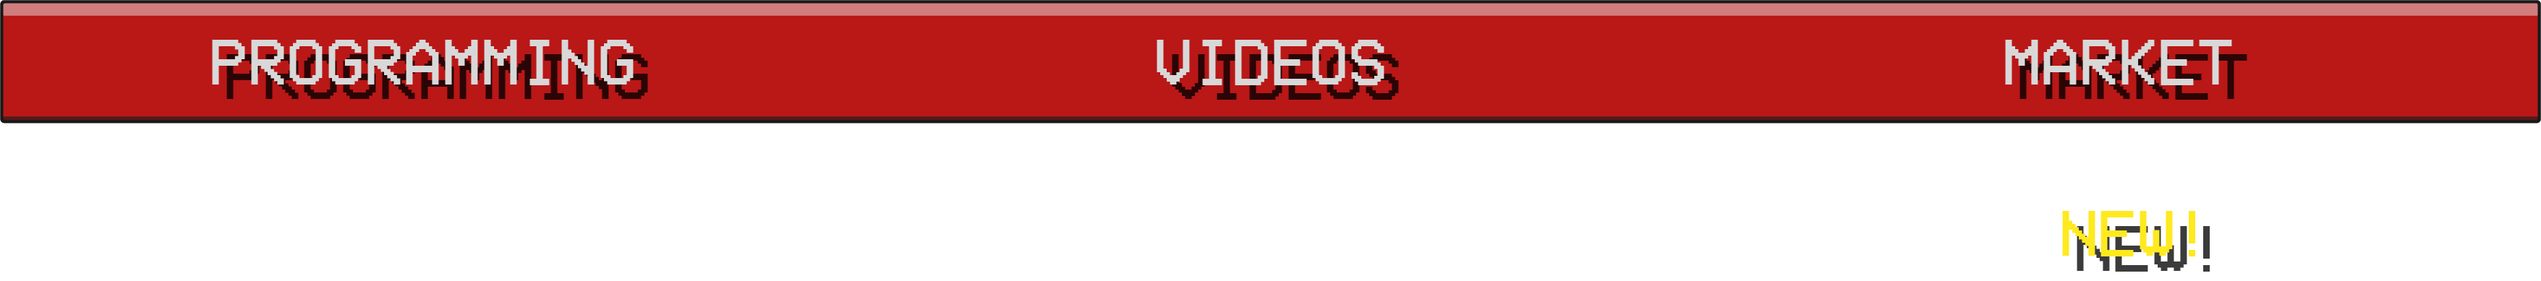
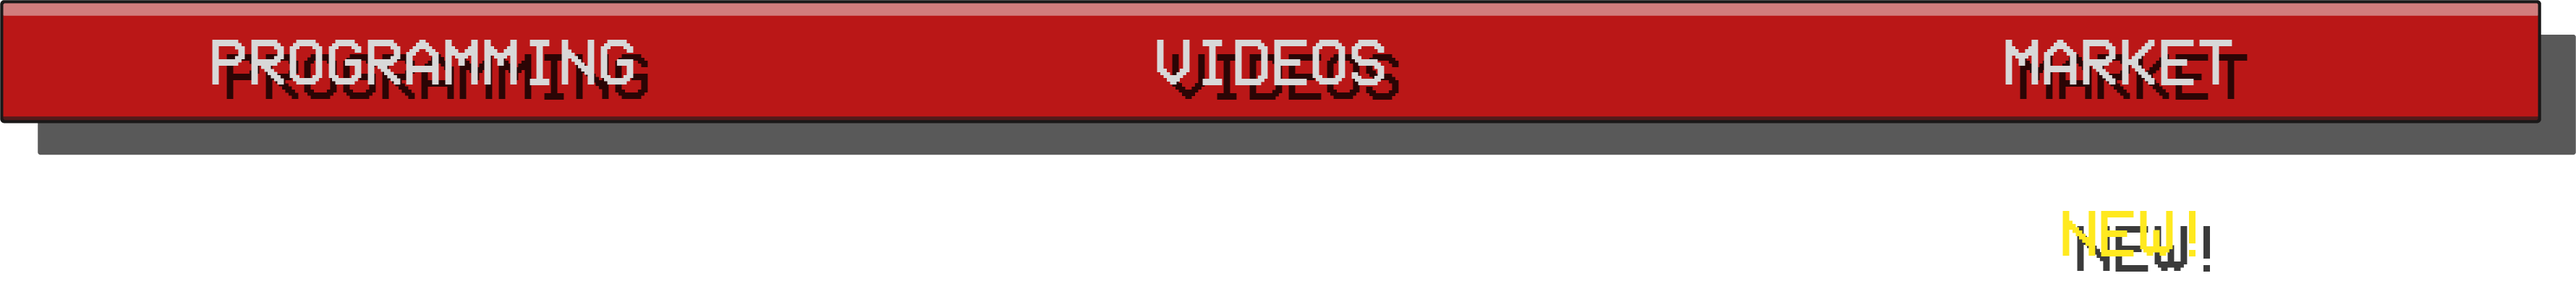
mobile video page ready

diff --git a/src/styles/app.css b/src/styles/app.css
@@ -137,9 +137,6 @@
     z-index: 1;
     cursor: pointer;
   }
-  .menu-desktop-bar .menu-bar {
-    filter: drop-shadow(0.5rem 0.5rem 0 rgba(0, 0, 0, 0.5));
-  }
   .menu-desktop-box {
     position: absolute;
     z-index: 0;
@@ -149,14 +146,14 @@
     filter: drop-shadow(0.5rem 0.5rem 0 rgba(0, 0, 0, 0.5));
     cursor: pointer;
   }
-  .menu-desktop-box .box-selected {
-    opacity: 0;
+  .box-selected {
+    display: none;
   }
-  .menu-desktop-box .box:hover {
-    opacity: 0;
+  .box-link:hover .box-selected {
+    display: block;
   }
-  .menu-desktop-box .box-selected:hover {
-    opacity: 100;
+  .box-link:hover .box-normal {
+    display: none;
   }
 }
 .greetings-message {
@@ -237,7 +234,7 @@ footer {
   display: grid;
   grid-template-columns: repeat(2, 50%);
   width: 100%;
-  gap: 1rem;
+  row-gap: 1rem;
 }
 
 .video-card-box {
@@ -245,12 +242,25 @@ footer {
   flex-direction: column;
   gap: 0.6rem;
   align-items: center;
-  justify-content: center;
+  justify-content: flex-end;
   width: 100%;
-  border: 1px solid red;
 }
-.video-card-box figure {
-  width: 3rem;
+.video-card-box .image-video {
+  width: 4rem;
+}
+.video-card-box .title-video {
+  width: 7rem;
+}
+.video-card-box p {
+  display: inline-block;
+  font-family: "Arial";
+  color: white;
+  text-shadow: 0.2rem 0.3rem 0 rgba(0, 0, 0, 0.5);
+  width: 30ch;
+  height: 40px;
+  font-size: 0.5rem;
+  text-align: justify;
+  text-align-last: center;
 }
 
 * {
@@ -269,6 +279,7 @@ img {
   display: flex;
   flex-direction: column;
   min-height: 100dvh;
+  overflow: hidden;
   background-image: url("../assets/bg/webBackgroundRework.webp");
   background-size: cover;
   background-position: center;

diff --git a/src/utils/videos.js b/src/utils/videos.js
@@ -6,44 +6,50 @@ import img5 from "../assets/videos/biri_pic@300x.png";
 import img6 from "../assets/videos/oisc_image@300x.png";
 import img7 from "../assets/videos/pom_pic@300x.png";
 
-
+import tit1 from "../assets/videos/inFlux.png";
+import tit2 from "../assets/videos/media.png";
+import tit3 from "../assets/videos/Sensory.png";
+import tit4 from "../assets/videos/knowledge.png";
+import tit5 from "../assets/videos/birindwa.png";
+import tit6 from "../assets/videos/OI_SC_1.png";
+import tit7 from "../assets/videos/ProductsOf.png";
 
 
 export const videos = [
   {
     image: img1,
-    title: "",
-    desc: ""
+    title: tit1,
+    desc: "A visualiser for musician by the name kisito."
   },
   {
     image: img2,
-    title: "",
-    desc: ""
+    title: tit2,
+    desc: "A curated media collection."
   },
   {
     image: img3,
-    title: "",
-    desc: ""
+    title: tit3,
+    desc: "The positive outcomes of sensory sensitivy with a focus on the visually orientated."
   },
   {
     image: img4,
-    title: "",
-    desc: ""
+    title: tit4,
+    desc: "The importance of shared information and it's impact on humanity on an individual and global scale."
   },
   {
     image: img5,
-    title: "",
-    desc: ""
+    title: tit5,
+    desc: "God Bless."
   },
   {
     image: img6,
-    title: "",
-    desc: ""
+    title: tit6,
+    desc: "The mind (software) / The body (hardware)"
   },
   {
     image: img7,
-    title: "",
-    desc: ""
+    title: tit7,
+    desc: "Artifacts produced by humanity."
   },
 ]
 

diff --git a/src/Navbar.jsx b/src/Navbar.jsx
@@ -24,8 +24,8 @@ function Navbar() {
           
           <figure className="menu-desktop-bar">
             <img className="menu-bar" src={menuBar}></img>
-            <figure className="menu-desktop-box">
-              {/* <Link to={"/programming"}>
+            {/* <figure className="menu-desktop-box">
+              <Link to={"/programming"} className="box-link">
                 <img className="box" src={box} alt="" />
                 <img className="box-selected" src={boxSel} alt="" />
               </Link>
@@ -36,8 +36,8 @@ function Navbar() {
               <Link to={"/market"}>
                 <img className="box" src={box} alt="" />
                 <img className="box-selected" src={boxSel} alt="" />
-              </Link> */}
-            </figure>
+              </Link>
+            </figure> */}
           </figure>
           
           <figure className="navbar-menu-button">

diff --git a/src/styles/videos.sass b/src/styles/videos.sass
@@ -4,7 +4,7 @@
   padding: 1rem
   align-items: center
   justify-content: flex-start
-
+  
   
 .video-title-text
   font-size: 0.5rem
@@ -17,15 +17,28 @@
   display: grid
   grid-template-columns: repeat(2, 50%)
   width: 100%
-  gap: 1rem
+  row-gap: 1rem
 
 .video-card-box
   display: flex
   flex-direction: column
   gap: 0.6rem
   align-items: center
-  justify-content: center
+  justify-content: flex-end
   width: 100%
-  border: 1px solid red
-  figure
-    width: 3rem
+  .image-video
+    width: 4rem
+  .title-video
+    width: 7rem
+  p
+    display: inline-block
+    font-family: 'Arial'
+    color: white
+    text-shadow: 0.2rem 0.3rem 0 rgba(0, 0, 0, 0.5)
+    width: 30ch
+    height: 40px
+    font-size: 0.5rem
+    text-align: justify
+    text-align-last: center
+  
+

diff --git a/src/styles/navbar.sass b/src/styles/navbar.sass
@@ -96,8 +96,6 @@
         position: relative
         z-index: 1
         cursor: pointer
-        .menu-bar
-            filter: drop-shadow(0.5rem 0.5rem 0 rgba(0, 0, 0, 0.5))
         
     .menu-desktop-box
         position: absolute
@@ -107,10 +105,12 @@
         left: 2.3rem
         filter: drop-shadow(0.5rem 0.5rem 0 rgba(0, 0, 0, 0.5))
         cursor: pointer
-        .box-selected
-            opacity: 0
-        .box:hover
-            opacity: 0
-        .box-selected:hover
-            opacity: 100
 
+    .box-selected
+      display: none
+
+    .box-link:hover .box-selected
+      display: block
+
+    .box-link:hover .box-normal
+      display: none

diff --git a/src/App.jsx b/src/App.jsx
@@ -4,6 +4,8 @@ import Navbar from './Navbar';
 import Footer from './Footer';
 import Home from './Home';
 import Videos from './Videos'
+import Programming from './Programming'
+import Market from './Market'
 
 function App() {
 
@@ -13,6 +15,8 @@ function App() {
       <Routes>
         <Route path="/" element={<Home />} />
         <Route path="/videos" element={<Videos />} />
+        <Route path="/programming" element={<Programming/>}/>
+        <Route path="/market" element={<Market/>}/>
       </Routes>
       <Footer/>
     </div>

diff --git a/src/Commons/VideoCard.jsx b/src/Commons/VideoCard.jsx
@@ -2,15 +2,16 @@ function VideoCard({videoData}){
 
   return(
     <div className="video-card-box">
-      <figure>
+      <figure className="image-video">
         <img src={videoData.image}/>
       </figure>
-     <figure>
+
+     <figure className="title-video">
         <img src={videoData.title}/>
       </figure>
-      <figure>
-        <img src={videoData.desc}/>
-      </figure>
+      <div className="text-video">
+        <p>{videoData.desc}</p>
+      </div>
     </div>
 
   )

diff --git a/src/styles/app.sass b/src/styles/app.sass
@@ -25,6 +25,8 @@
 @import './home'
 @import './footer'
 @import './videos'
+@import './programming'
+@import './market'
 
 *
     box-sizing: border-box
@@ -40,6 +42,7 @@ img
     display: flex
     flex-direction: column
     min-height: 100dvh
+    overflow: hidden
     background-image: url("../assets/bg/webBackgroundRework.webp")
     background-size: cover
     background-position: center

diff --git a/src/Programming.jsx b/src/Programming.jsx
@@ -1,0 +1,9 @@
+function Programming(){
+return(
+    <h2></h2>
+  )
+
+
+}
+
+export default Programming;

diff --git a/src/Market.jsx b/src/Market.jsx
@@ -1,0 +1,9 @@
+function Market(){
+  return(
+    <h2></h2>
+  )
+
+
+}
+
+export default Market;
